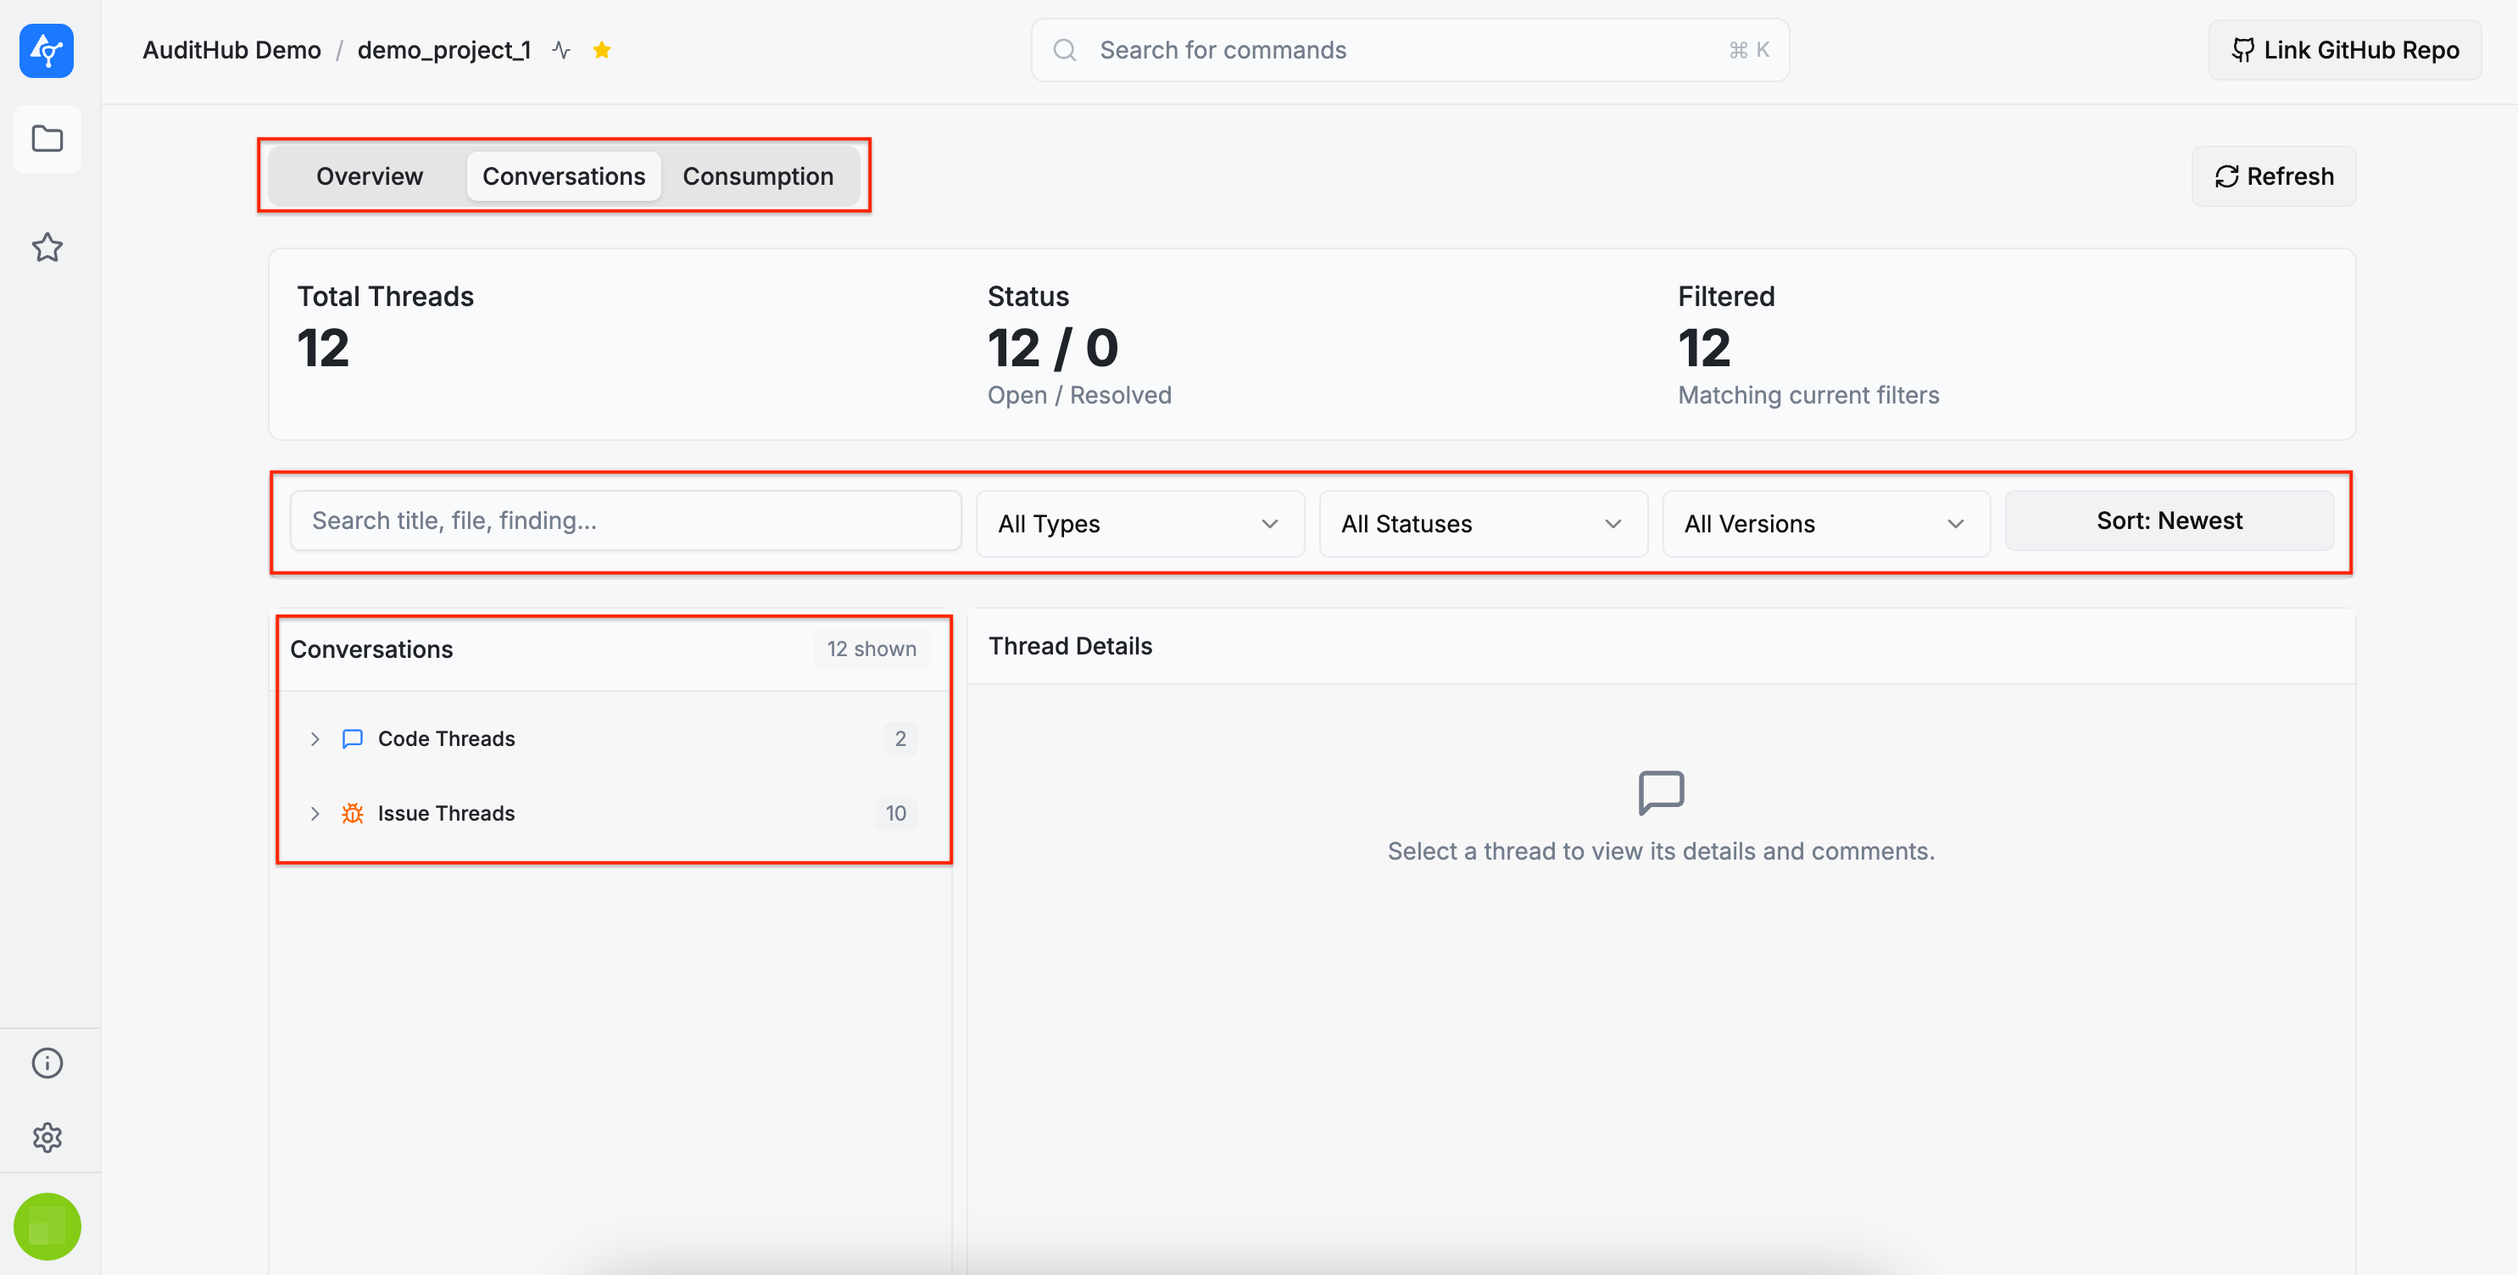
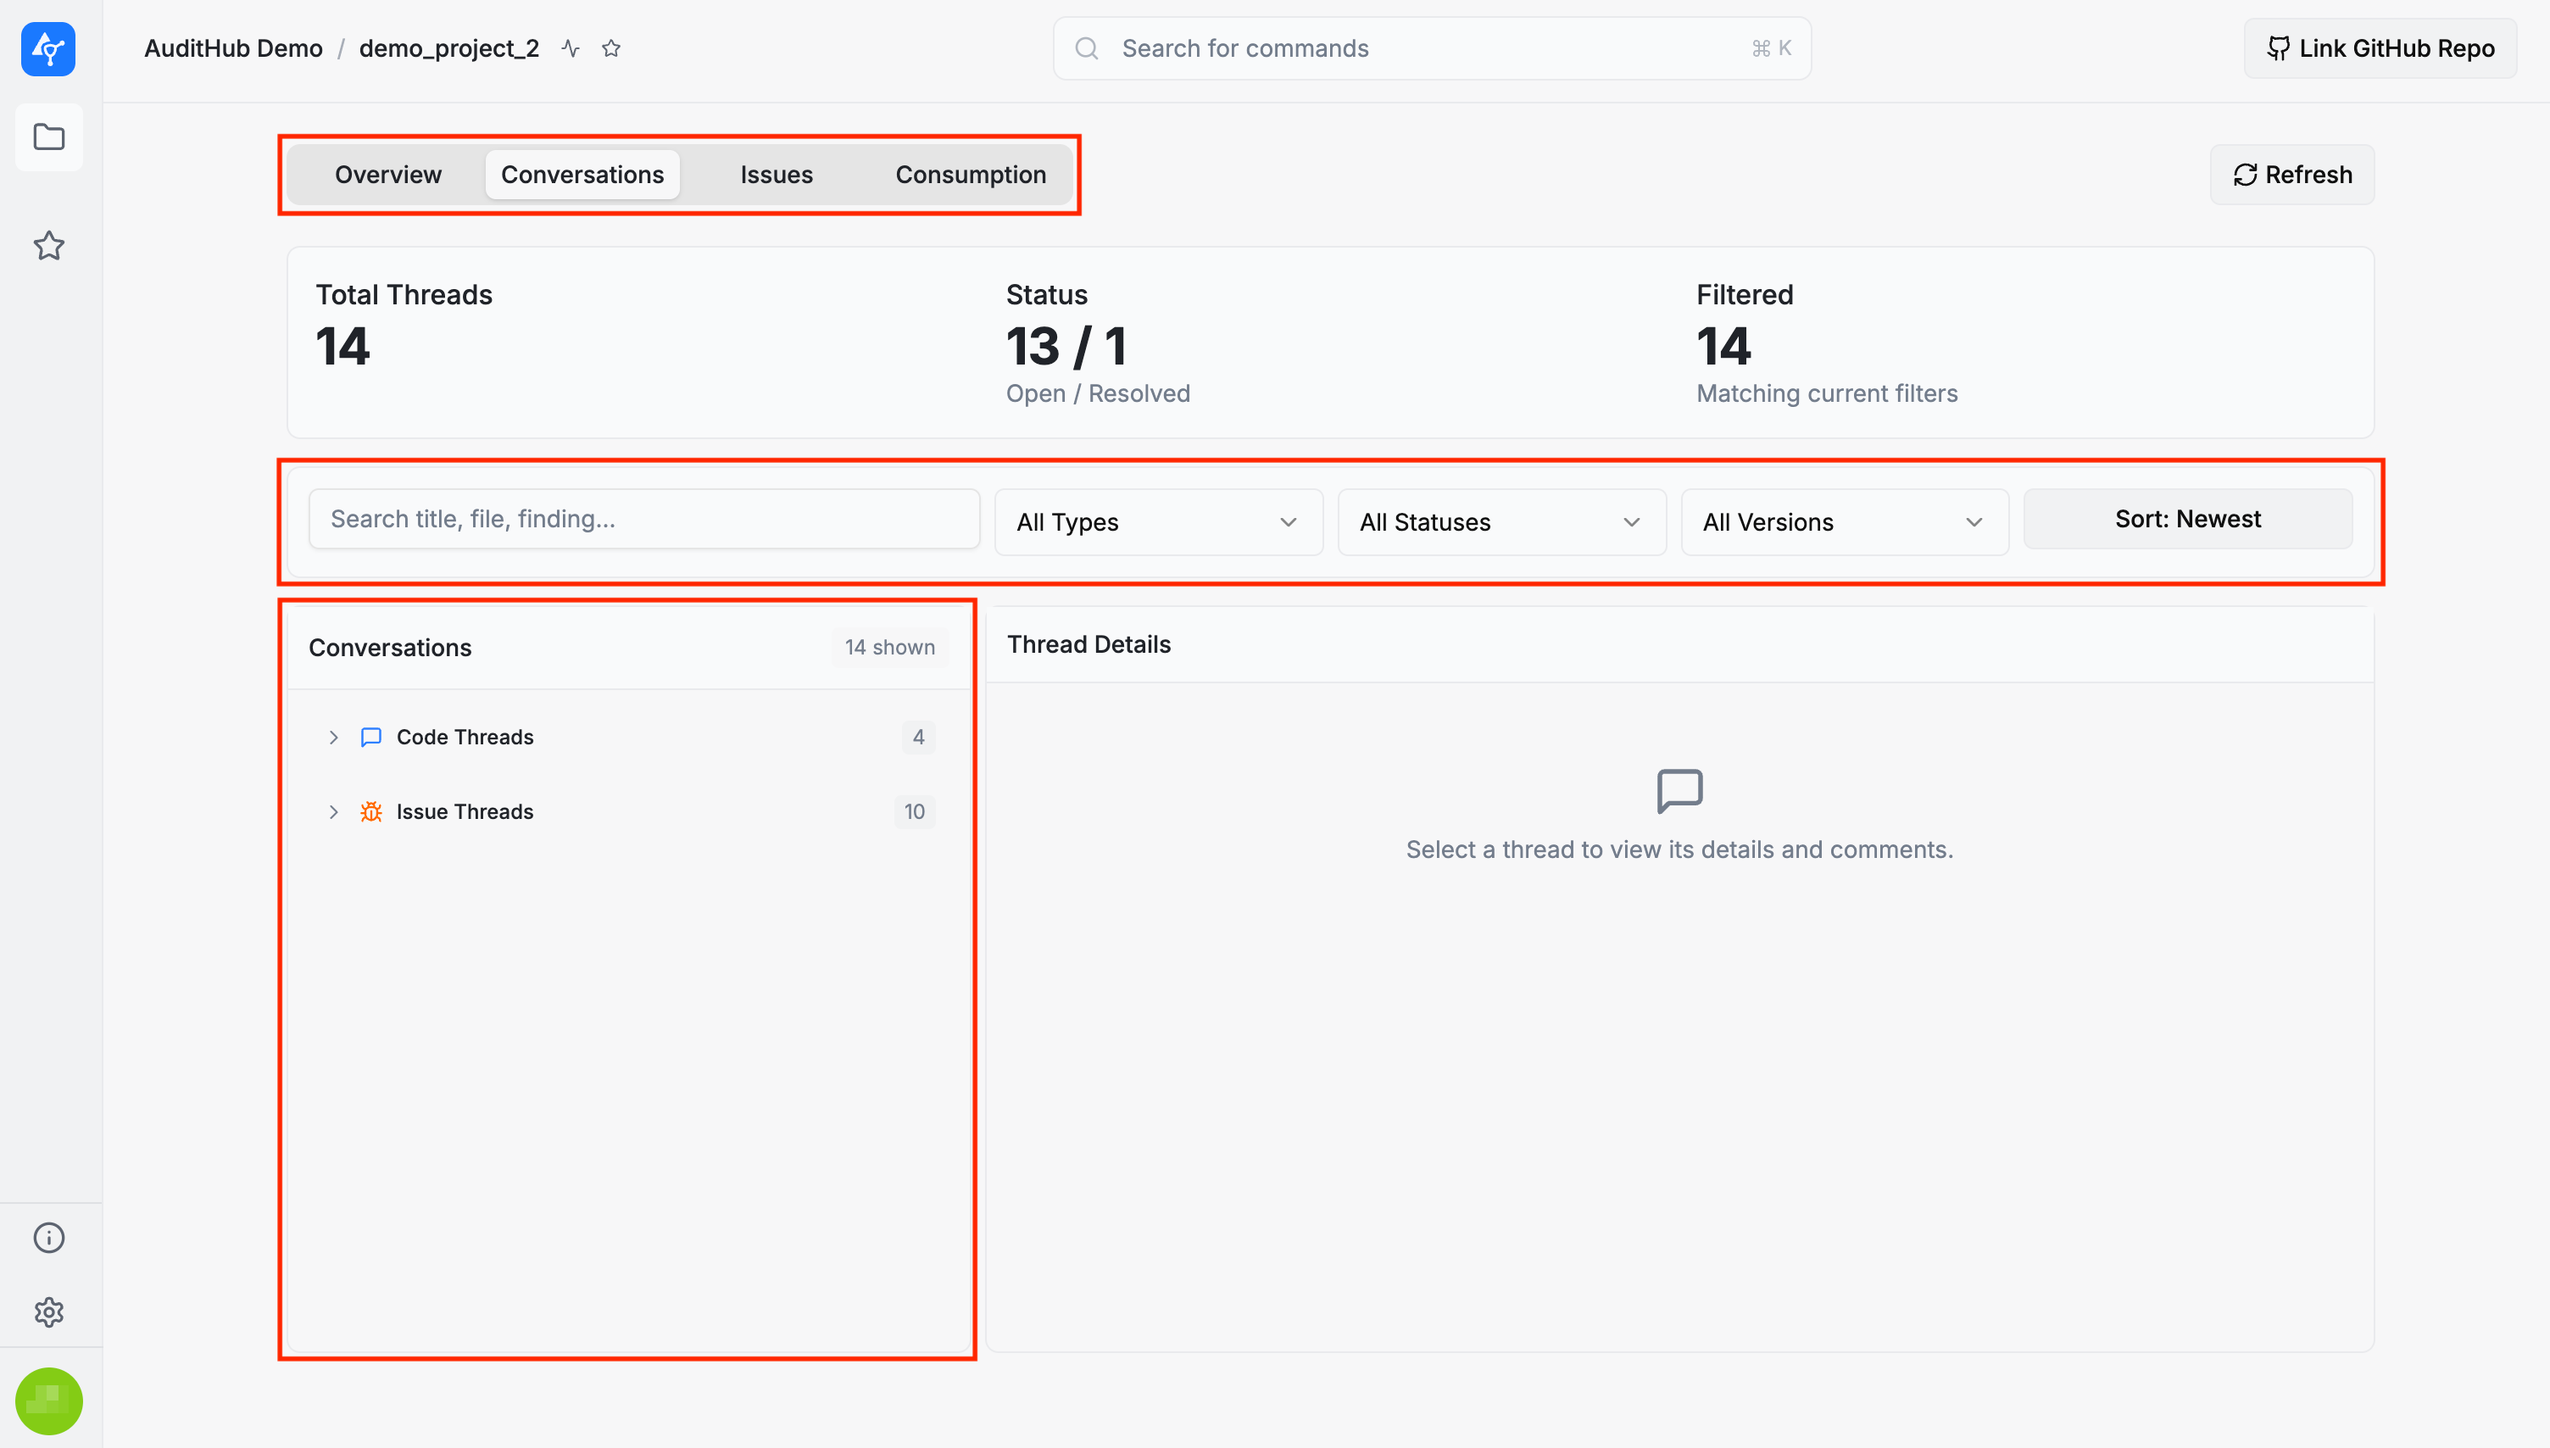
Made updates w.r.t. the new FE changes

diff --git a/saas/guide/pages/projects/index.md b/saas/guide/pages/projects/index.md
@@ -54,6 +54,10 @@ You can also perform common project actions directly from this tab. Use **Add ve
 ![image](../../../screenshots/project_statistics_overview_1.png)
 ![image](../../../screenshots/project_statistics_overview_2.png)
 
+### Issues
+
+![image](../../../screenshots/project_statistics_issues.png)
+
 ### Conversations
 
 The **Conversations** tab provides a project-level view of all conversation threads associated with the project, including code threads and issue threads. The summary area shows the total number of threads, the number of open and resolved threads, and the number of threads matching the current filters.
